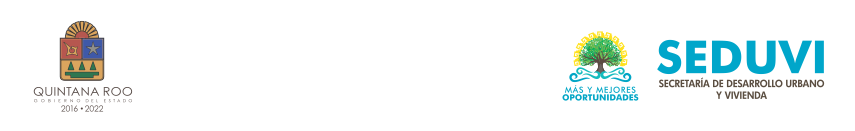
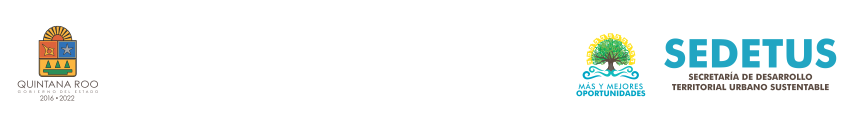
actualizando por sedetus

Changed region(s): [[0.6386, 0.2443, 1.0, 0.7939], [0.0, 0.1527, 0.152, 0.855]]

diff --git a/src/java/controladores/ControladorRegistro.java b/src/java/controladores/ControladorRegistro.java
@@ -712,12 +712,12 @@ public class ControladorRegistro extends HttpServlet
           {    
             mail correo = new mail();
             Iterator iterator=req.listIterator();
-            String cuerpocorreo="<table border='0' align='center' width='90%'><tr><td><img src=\"http://localhost:8080/tramites/imagenes/headerreporte.png\" /></td></tr></table><br><b>C. Subsecretari@ <br>P R E S E N T E:</b><br><br>"+"Por este medio te notificamos de un nuevo trámite de: (<b>"+nombretramite+"</b>), con fecha: "+fecha_solicitud+" con <b>Núm. de Solicitud: "+midsolicitud+"</b> que ha sido ingresado al Sistema de Ventanilla Unica de Gestión de Trámites y Servicios de la SEDUVI para su atención. <br><br>";
+            String cuerpocorreo="<table border='0' align='center' width='90%'><tr><td><img src=\"http://localhost:8080/tramites/imagenes/headerreporte.png\" /></td></tr></table><br><b>C. Subsecretari@ <br>P R E S E N T E:</b><br><br>"+"Por este medio te notificamos de un nuevo trámite de: (<b>"+nombretramite+"</b>), con fecha: "+fecha_solicitud+" con <b>Núm. de Solicitud: "+midsolicitud+"</b> que ha sido ingresado al Sistema de Ventanilla Unica de Gestión de Trámites y Servicios de la SEDETUS para su atención. <br><br>";
             //resultado=correo.send(email, "Lista de Requisitos para trámite en la SEDUVI", "<table border='0' align='center' width='90%'><tr><td><img src=\"https://encrypted-tbn0.gstatic.com/images?q=tbn:ANd9GcS8BevTD5TfmuOTtwljH55eYl5nUR0dLpluk43gDdk5wlZegwHHPg\" /></td></tr></table><br><b>Hola, "+nombre_solicitante +" "+apellido_paterno+" "+apellido_materno+"</b><br><br>"+"Por este medio te enviamos los Requisitos para el tramite: (<b>"+nombretramite+"</b>) con la SEDUVI <br><br>"+"Atentamente"+"<br><br>"+"<b>"+unidadadministrativanombre+"</b><br>Secretaría de Desarrollo Urbano y Vivienda");
             Integer i=1;
                        
             cuerpocorreo=cuerpocorreo+"<br>Atentamente<br><br><b>Administrador del Sistema</b><br>";
-            resultado=correo.send(emailua, "Ingreso de Nueva Solicitud en Ventanilla Unica de Trámites y Servicios de la SEDUVI", cuerpocorreo);
+            resultado=correo.send(emailua, "Ingreso de Nueva Solicitud en Ventanilla Unica de Trámites y Servicios de la SEDETUS", cuerpocorreo);
               
           }
           if(resultado==true)
@@ -807,7 +807,7 @@ public class ControladorRegistro extends HttpServlet
                 requisitos+="<tr><td width='10%'>"+num.toString()+"</td><td width='90%'>"+requisito.getNombre()+"</td></tr>";
                 num++;
             }
-            resultado=correo.send(email, "Lista de Requisitos para trámite en la SEDUVI", "<table border='0' align='center' width='90%'><tr><td><img src=\"http://localhost:8080/tramites/imagenes/headerreporte.png\" /></td></tr></table><br><b>Hola, "+nombre_solicitante +" "+apellido_paterno+" "+apellido_materno+"</b><br><br>"+"Por este medio te enviamos los Requisitos para el tramite: (<b>"+nombretramite+"</b>) con la SEDUVI <br><br><table border='2' align='left' width='100%'><thead><tr><th width='20%'>No.</th><th width='80%'>Descripción</th></tr></thead><tbody>"+requisitos+"</tbody></table><br><br><br>"+"Atentamente"+"<br><br>"+"<b>"+unidadadministrativanombre+"<br>Secretaría de Desarrollo Urbano y Vivienda</b>");
+            resultado=correo.send(email, "Lista de Requisitos para trámite en la SEDETUS", "<table border='0' align='center' width='90%'><tr><td><img src=\"http://localhost:8080/tramites/imagenes/headerreporte.png\" /></td></tr></table><br><b>Hola, "+nombre_solicitante +" "+apellido_paterno+" "+apellido_materno+"</b><br><br>"+"Por este medio te enviamos los Requisitos para el tramite: (<b>"+nombretramite+"</b>) con la SEDETUS <br><br><table border='2' align='left' width='100%'><thead><tr><th width='20%'>No.</th><th width='80%'>Descripción</th></tr></thead><tbody>"+requisitos+"</tbody></table><br><br><br>"+"Atentamente"+"<br><br>"+"<b>"+unidadadministrativanombre+"<br>Secretaría de Desarrollo Territorial Urbano Sustentable</b>");
             //Integer i=1;
                        
             //cuerpocorreo=cuerpocorreo+"<br>Atentamente<br><br><b>Administrador del Sistema</b><br>";

diff --git a/src/java/controladores/ControladorAdjunto.java b/src/java/controladores/ControladorAdjunto.java
@@ -457,11 +457,9 @@ public class ControladorAdjunto extends ControladorBase {
     public void grabarfromApp(HttpServletRequest request, HttpServletResponse response) throws Exception{
 
         Integer id_unidadadministrativa;
-<<<<<<< HEAD
+
         Integer id_usuario=30;
-=======
-        Integer id_usuario=20;
->>>>>>> 4ab40955ea4b08fbce18baec812cff06f6120226
+
                       
         int id_seguimiento = Integer.parseInt(request.getParameter("id_seguimiento"));  
         String nombreadjunto= request.getParameter("filename");
